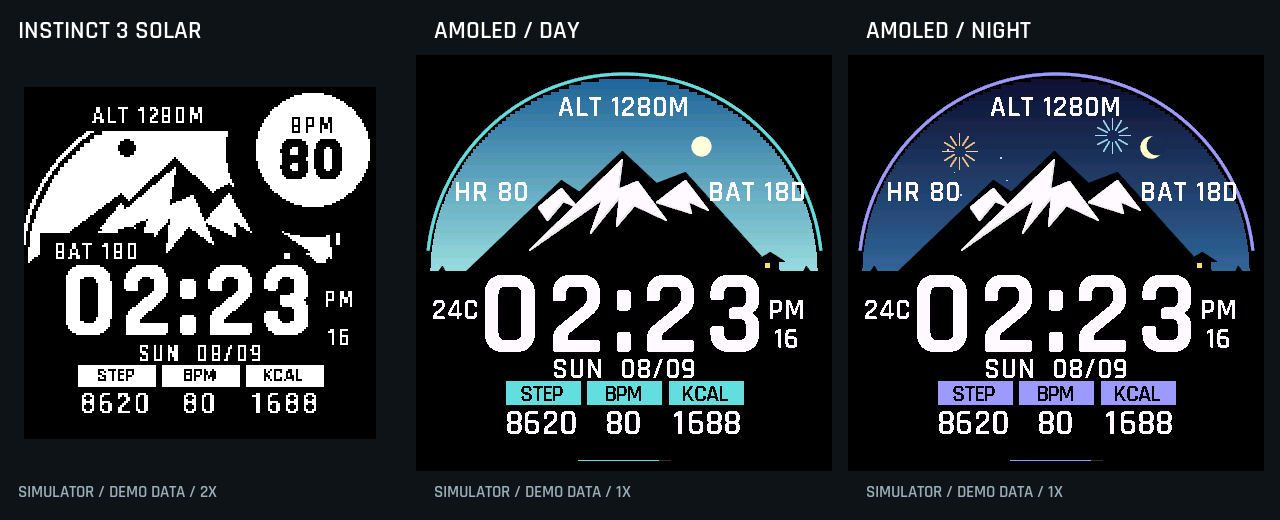
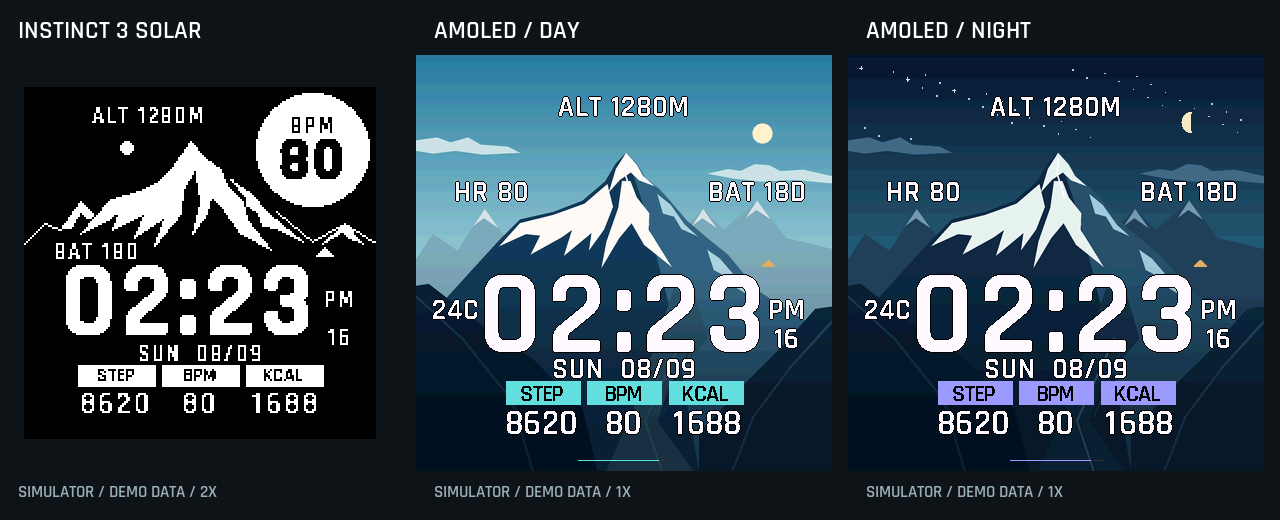
feat: redesign Alpine with full-bleed Everest landscapes

diff --git a/alpine/tools/everest_art.py b/alpine/tools/everest_art.py
@@ -1,0 +1,103 @@
+"""Clean full-bleed Everest illustration, rasterized for each native screen.
+Original artwork; references and stylization boundary: assets/everest/SOURCES.md.
+"""
+from PIL import Image,ImageDraw
+
+RIDGE=[(-.08,.72),(.04,.62),(.14,.51),(.20,.445),(.25,.395),(.33,.377),(.40,.35),(.455,.303),(.48,.26),(.505,.235),(.53,.26),(.55,.294),(.585,.322),(.61,.35),(.65,.397),(.70,.44),(.75,.48),(.82,.565),(.92,.63),(1.08,.72)]
+
+def monochrome(width,height):
+    """Independent ink composition: large solid snow planes, no grayscale conversion."""
+    im=Image.new('1',(width,height),0);d=ImageDraw.Draw(im)
+    def points(ps):return [(round(x*width/176),round(y*height/176)) for x,y in ps]
+    def polygon(ps,white=True):d.polygon(points(ps),fill=1 if white else 0)
+    def ridge(ps):d.line(points(ps),fill=1,width=1)
+    # A continuous backdrop with distant summits separated from the foreground.
+    ridge([(0,78),(10,68),(18,71),(28,57),(40,70),(51,62),(66,77),(87,67),(109,73),(126,62),(144,77),(160,68),(176,78)])
+    polygon([(18,71),(28,57),(37,68),(31,65),(28,62),(23,70)])
+    polygon([(149,78),(160,68),(169,78),(162,75),(159,72)])
+    # Taller, broader Everest: summit pyramid and broad western shoulder.
+    silhouette=[(0,94),(19,82),(30,69),(43,55),(58,51),(68,45),(76,31),(83,27),(90,35),(98,41),(108,46),(116,56),(126,64),(143,77),(161,89),(176,96),(176,176),(0,176)]
+    polygon(silhouette,False)
+    polygon([(83,27),(74,40),(67,47),(59,51),(43,56),(28,73),(42,66),(48,61),(44,71),(60,63),(55,75),(70,65),(65,79),(78,63),(79,51),(84,43)])
+    polygon([(83,27),(90,35),(98,41),(101,49),(109,57),(111,66),(123,81),(108,73),(99,60),(93,54),(91,63),(84,73),(88,57),(86,45)])
+    polygon([(103,46),(112,52),(122,63),(139,77),(127,71),(119,69),(117,63),(111,59),(111,55)])
+    # No hairlines or dot carpets beneath the data: the mountain's dark base fills it.
+    return im
+
+def render(width,height,scene,mono=False,amoled=False):
+    if mono:return monochrome(width,height)
+    ss=4 if amoled else 1;W,H=width*ss,height*ss
+    im=Image.new('RGB',(W,H));d=ImageDraw.Draw(im);night=scene in (4,9)
+    def rgb(c):return ((c>>16)&255,(c>>8)&255,c&255)
+    def xy(points):return [(round(x*W),round(y*H)) for x,y in points]
+    def poly(points,c):d.polygon(xy(points),fill=rgb(c))
+    def line(points,c,w=1):d.line(xy(points),fill=rgb(c),width=max(1,round(w*ss*width/260)),joint='curve')
+    if night:top,bottom=0x07172F,0x32738B;snow,ice,shade,rock=0xE6F3EF,0x9ECAD9,0x28536D,0x102B43
+    elif scene==1:top,bottom=0x6C6496,0xEAC7BC;snow,ice,shade,rock=0xFFF2DC,0xCBCDDD,0x626881,0x263B55
+    elif scene in (3,6):top,bottom=0x805E78,0xE9B27E;snow,ice,shade,rock=0xFFF1D6,0xD7C2B6,0x70627A,0x28374E
+    elif scene in (5,7):top,bottom=0x284858,0x98B8BF;snow,ice,shade,rock=0xE2E9E2,0xA5C4CE,0x506C7D,0x263E51
+    else:top,bottom=0x287D9E,0xAFDDE0;snow,ice,shade,rock=0xFAFFF4,0xABD3DE,0x346783,0x163D58
+    for y in range(H):
+        k=min(1,y/(H*.62));a=rgb(top);b=rgb(bottom)
+        color=tuple(round(v*(1-k)+z*k) for v,z in zip(a,b))
+        if mono:color=(0,0,0) if night else (255,255,255)
+        d.line((0,y,W,y),fill=color)
+    # Two restrained, broad cloud banks; no screen-wide stripes or stippling.
+    clouds=[[(0,.205),(.05,.198),(.083,.21),(.125,.198),(.155,.215),(.22,.22),(.25,.235),(.16,.239),(.095,.23),(.04,.237),(0,.23)],[(.70,.285),(.75,.274),(.78,.278),(.815,.262),(.85,.265),(.875,.279),(.93,.275),(1,.291),(1,.308),(.91,.300),(.83,.304),(.76,.296)]]
+    if not mono:
+        for i,cloud in enumerate(clouds):poly(cloud,0x426C86 if night else (0xC8E5E3 if scene==2 else 0xDCCBC5))
+    else:
+        # Leave clear sky around the headline and the physical heart-rate window.
+        line([(.02,.23),(.08,.23),(.10,.219),(.15,.219),(.18,.23),(.24,.23)],0xFFFFFF if night else 0,1)
+    # Distant silhouettes, softened on colour screens and clean contours on MIP.
+    far=[(-.1,.64),(.04,.43),(.10,.47),(.165,.37),(.23,.46),(.30,.41),(.39,.50),(.50,.43),(.59,.47),(.69,.37),(.74,.42),(.82,.35),(.89,.44),(1.1,.49),(1.1,1),(-.1,1)]
+    poly(far,0 if mono else (0x23445E if night else 0x7DAAB8))
+    if mono:line(far[:14],0xFFFFFF if night else 0,1)
+    for x,y in [(.165,.37),(.69,.37),(.82,.35)]:
+        poly([(x-.026,y+.040),(x,y),(x+.032,y+.045),(x+.01,y+.03),(x-.002,y+.022)],0xFFFFFF if mono else (0x7599AC if night else 0xD2E3E1))
+    # Everest's summit pyramid and broad western shoulder, extended to the screen edge.
+    poly(RIDGE+[(1.1,1.1),(-.1,1.1)],0 if mono else rock)
+    poly([(.505,.235),(.53,.26),(.55,.294),(.585,.322),(.61,.35),(.65,.397),(.70,.44),(.75,.48),(.82,.565),(.92,.63),(1.08,.72),(1.08,1),(.68,1),(.62,.65),(.58,.49),(.55,.37)],0 if mono else shade)
+    bright=0xFFFFFF if mono else snow;cool=0xFFFFFF if mono else ice
+    # Few large, deliberate snow planes retain a strong silhouette at 176 pixels.
+    poly([(.505,.235),(.53,.263),(.545,.29),(.573,.315),(.536,.301),(.516,.282),(.49,.30),(.464,.329),(.48,.274)],bright)
+    poly([(.46,.31),(.405,.357),(.33,.384),(.25,.404),(.20,.459),(.264,.43),(.298,.434),(.276,.479),(.35,.438),(.375,.42),(.356,.482),(.422,.427),(.416,.469),(.452,.419),(.473,.365)],bright)
+    poly([(.495,.302),(.515,.303),(.53,.342),(.56,.38),(.559,.42),(.614,.509),(.548,.456),(.518,.404),(.488,.44),(.446,.511),(.458,.448),(.486,.367)],bright)
+    poly([(.58,.334),(.612,.36),(.646,.408),(.676,.435),(.638,.418),(.62,.388),(.594,.381)],cool)
+    poly([(.70,.468),(.73,.489),(.768,.533),(.806,.582),(.766,.557),(.744,.531),(.716,.517)],cool)
+    # A thin, single ridge separates the two main snow faces without hairline scratches.
+    if not mono:line([(.505,.249),(.502,.284),(.514,.322),(.52,.344)],0xFFFFFF,1)
+    # Foreground glacier valley and rock walls continue behind the clock/data.
+    glacier=[(.62,.56),(.67,.58),(.70,.68),(.61,.79),(.58,.88),(.71,1.06),(.43,1.06),(.52,.86),(.56,.74)]
+    poly(glacier,0 if mono else (0x15364D if night else 0x305D73))
+    left=[(-.1,.57),(.03,.55),(.16,.65),(.28,.73),(.40,.85),(.46,1.1),(-.1,1.1)]
+    right=[(1.1,.59),(.96,.61),(.88,.70),(.78,.80),(.68,.91),(.68,1.1),(1.1,1.1)]
+    poly(left,0 if mono else 0x0A2337);poly(right,0 if mono else 0x102D42)
+    # Sparse contour accents at the edges, not a texture carpet under the numerals.
+    if mono:
+        line([(.0,.58),(.07,.63),(.13,.71)],0xFFFFFF,1)
+        line([(1,.63),(.95,.67),(.9,.74)],0xFFFFFF,1)
+    else:
+        line([(.0,.58),(.11,.68),(.23,.83),(.28,1)],0x1B3D53,1.5)
+        line([(1,.64),(.90,.75),(.81,.87),(.76,1)],0x285069,1.4)
+        line([(.64,.68),(.59,.79),(.55,.88),(.59,1)],0x426E80,1.2)
+        line([(.66,.7),(.62,.80),(.59,.87)],0x21495F,1)
+    # Gentle darkness for text contrast, preserving the full-bleed foreground.
+    if not mono:
+        layer=Image.new('RGBA',(W,H));ld=ImageDraw.Draw(layer)
+        for y in range(H):
+            k=max(0,min(1,(y/H-.46)/.48));alpha=round(115*k*k*(3-2*k))
+            ld.line((0,y,W,y),fill=(0,5,13,alpha))
+        im=Image.alpha_composite(im.convert('RGBA'),layer).convert('RGB')
+    if ss!=1:im=im.resize((width,height),Image.Resampling.LANCZOS)
+    if mono:return im.convert('1',dither=Image.Dither.NONE)
+    if not amoled:
+        palette=Image.new('P',(1,1))
+        palette.putpalette([0,0,0,85,85,85,170,170,170,255,255,255,85,170,170]+[0,0,0]*251)
+        return im.quantize(palette=palette,dither=Image.Dither.NONE)
+    return im
+
+
+def generate_resources(folder,width,height,mono,amoled):
+    folder.mkdir(exist_ok=True)
+    for scene in range(1,10):render(width,height,scene,mono,amoled).save(folder/f'everest-{scene}.png')

diff --git a/alpine/tools/generate.py b/alpine/tools/generate.py
@@ -2,6 +2,7 @@
 from pathlib import Path
 import json, math, uuid
 from PIL import Image, ImageDraw, ImageFont
+from everest_art import generate_resources
 ROOT=Path(__file__).resolve().parents[1]
 PACKS=Path.home()/'Library/Application Support/Garmin/ConnectIQ/Devices'
 DEVICES=['instinct3solar45mm','instinct2','instinct2s','instinct2x','fenix7','epix2']
@@ -86,7 +87,15 @@ def generate():
         icons=res/'drawables';icons.mkdir(exist_ok=True)
         iw=c['launcherIcon']['width'];ih=c['launcherIcon']['height']
         (icons/'icon.svg').write_text(f'<svg xmlns="http://www.w3.org/2000/svg" width="{iw}" height="{ih}" viewBox="0 0 40 40"><rect width="40" height="40" fill="black"/><path d="M3 31 L18 8 L25 18 L29 13 L38 31 Z" fill="white"/><path d="M12 27 L18 13 L21 21 L18 19 Z" fill="black"/></svg>')
-        (icons/'drawables.xml').write_text('<drawables><bitmap id="LauncherIcon" filename="icon.svg"/></drawables>')
+        generate_resources(icons,w,h,mono,c['bitsPerPixel']==16)
+        entries=['<bitmap id="LauncherIcon" filename="icon.svg"/>']
+        for i in range(1,10):
+            if mono:
+                entries.append(f'<bitmap id="Everest{i}" filename="everest-{i}.png" dithering="none" compress="true"><palette disableTransparency="true"><color>000000</color><color>FFFFFF</color></palette></bitmap>')
+            else:
+                attrs='automaticPalette="false" packingFormat="png"' if c['bitsPerPixel']==16 else 'compress="true"'
+                entries.append(f'<bitmap id="Everest{i}" filename="everest-{i}.png" dithering="none" {attrs}/>')
+        (icons/'drawables.xml').write_text('<drawables>'+''.join(entries)+'</drawables>')
         (out/'Device.mc').write_text('module Device {\n'+''.join(f' const {k}={str(v).lower()};\n' for k,v in constants.items())+'}\n')
         jungle += [f'{device}.sourcePath = $(base.sourcePath);generated/{device}',f'{device}.resourcePath = $(base.resourcePath);generated/{device}/resources',f'{device}.lang.zhs = resources-zhs']
         profiles.append(dict(device=device,**constants,minimumApi=min(p['connectIQVersion'] for p in c['partNumbers'])))
@@ -103,7 +112,7 @@ def generate():
     for mode in ['preview','tests']:
         for device in DEVICES:
             rel=f'generated/{device}/{mode}-manifest.xml'
-            ident=uuid.uuid5(uuid.NAMESPACE_DNS,f'wristink.alpine.detail6.{mode}.{device}').hex
+            ident=uuid.uuid5(uuid.NAMESPACE_DNS,f'wristink.alpine.everest5.{mode}.{device}').hex
             source=(ROOT/mode/'manifest.xml').read_text()
             old='bb71078cce15417aa5425aa350817002' if mode=='preview' else 'bb71078cce15417aa5425aa350817003'
             (ROOT/rel).write_text(source.replace(old,ident))

diff --git a/alpine/tools/settings.py b/alpine/tools/settings.py
@@ -1,7 +1,7 @@
 from pathlib import Path
 from xml.sax.saxutils import escape
 R=Path(__file__).resolve().parents[1]
-fields=[('TimeFormat',0,'Time format','时间格式',['System','12 hour','24 hour'],['跟随系统','12 小时','24 小时']),('Scene',0,'Landscape','山景',['Automatic','Dawn','Day','Dusk','Night','Rain','Volcano','Lightning','Rainbow','Fireworks'],['自动','黎明','白昼','黄昏','夜晚','雨景','火山','闪电','彩虹','烟花']),('Circle',0,'Instinct circle','本能圆窗',['Heart rate','Battery days','Stress'],['心率','剩余天数','压力']),('Smart',True,'Smart scenes','智能场景',None,None),('Seconds',True,'Seconds when awake','抬腕显示秒数',None,None),('LowBattery',20,'Low battery threshold (%)','低电量阈值（%）',None,None),('StressLimit',75,'Stress threshold','压力阈值',None,None)]
+fields=[('TimeFormat',0,'Time format','时间格式',['System','12 hour','24 hour'],['跟随系统','12 小时','24 小时']),('Scene',0,'Landscape','山景',['Automatic','Dawn','Day','Dusk','Night','Rain','Warm storm','Lightning','Rainbow','Fireworks'],['自动','黎明','白昼','黄昏','夜晚','雨景','暖色风暴','闪电','彩虹','烟花']),('Circle',0,'Instinct circle','本能圆窗',['Heart rate','Battery days','Stress'],['心率','剩余天数','压力']),('Smart',True,'Smart scenes','智能场景',None,None),('Seconds',True,'Seconds when awake','抬腕显示秒数',None,None),('LowBattery',20,'Low battery threshold (%)','低电量阈值（%）',None,None),('StressLimit',75,'Stress threshold','压力阈值',None,None)]
 for key,title,cn,default in [('Left','Left data','左侧数据',0),('Middle','Middle data','中间数据',1),('Right','Right data','右侧数据',2)]:fields.append((key,default,title,cn,['Steps','Heart rate','Calories','Altitude','Battery days','Distance'],['步数','心率','总热量','海拔','剩余天数','距离']))
 props=[];settings=[];en=['<string id="AppName">WristInk Alpine</string>'];zh=['<string id="AppName">山境 Alpine</string>']
 for key,default,title,cn,opts,cnopts in fields:

diff --git a/alpine/tools/package_local.py b/alpine/tools/package_local.py
@@ -2,7 +2,7 @@
 from pathlib import Path
 from PIL import Image,ImageDraw,ImageFont
 import hashlib,json,shutil,zipfile
-R=Path(__file__).resolve().parents[1];E=R/'dist/evidence';D=R/'docs';version='1.0.1'
+R=Path(__file__).resolve().parents[1];E=R/'dist/evidence';D=R/'docs';version='1.1.0'
 for name in ['instinct3-native','instinct2s-native','fenix7-native','epix2-native','epix2-night']:
  shutil.copy2(E/(name+'.png'),D/(name+'.png'))
 board=Image.new('RGB',(1280,520),(14,19,23));draw=ImageDraw.Draw(board)
@@ -10,7 +10,7 @@ f=ImageFont.truetype(str(R/'assets/fonts/Rajdhani-SemiBold.ttf'),25);small=Image
 for title,filename,left,width,scale in [('INSTINCT 3 SOLAR','instinct3-native',0,400,2),('AMOLED / DAY','epix2-native',416,416,1),('AMOLED / NIGHT','epix2-night',848,416,1)]:
  draw.text((left+18,14),title,font=f,fill='white');im=Image.open(E/(filename+'.png')).convert('RGB');im=im.resize((im.width*scale,im.height*scale),Image.Resampling.NEAREST)
  board.paste(im,(left+(width-im.width)//2,55+(416-im.height)//2));draw.text((left+18,481),'SIMULATOR / DEMO DATA'+(' / 2X' if scale==2 else ' / 1X'),font=small,fill=(154,175,183))
-board.save(D/'preview-board.png');board.save(D/'preview-details.png')
+board.save(D/'preview-board.png');board.save(D/'preview-everest.png')
 manifest=[]
 for p in sorted((R/'bin').glob('*-live.prg')):
  target=R/'dist'/p.name;shutil.copy2(p,target);manifest.append({'file':target.name,'bytes':target.stat().st_size,'sha256':hashlib.sha256(target.read_bytes()).hexdigest()})

diff --git a/alpine/tools/scenario.py b/alpine/tools/scenario.py
@@ -5,7 +5,7 @@ from generate import generate, ROOT, DEVICES
 p=argparse.ArgumentParser();p.add_argument('device',choices=DEVICES);p.add_argument('scene',type=int,choices=range(1,10));a=p.parse_args()
 generate();dest=ROOT/'generated/scenarios'/f'{a.device}-{a.scene}';dest.mkdir(parents=True,exist_ok=True)
 (dest/'Mode.mc').write_text(f'module Mode {{const DEMO=true;const SCENE={a.scene};}}\n')
-manifest=(ROOT/'manifest.xml').read_text().replace('bb71078cce15417aa5425aa350817001',uuid.uuid5(uuid.NAMESPACE_DNS,f'wristink.alpine.detail6.{a.device}.{a.scene}').hex)
+manifest=(ROOT/'manifest.xml').read_text().replace('bb71078cce15417aa5425aa350817001',uuid.uuid5(uuid.NAMESPACE_DNS,f'wristink.alpine.everest5.{a.device}.{a.scene}').hex)
 (dest/'manifest.xml').write_text(manifest)
 rel=dest.relative_to(ROOT)
 jungle=(ROOT/'monkey.jungle').read_text().replace('project.manifest = manifest.xml',f'project.manifest = {rel}/manifest.xml').replace('base.sourcePath = source;live',f'base.sourcePath = source;{rel}')

diff --git a/alpine/docs/validation.md b/alpine/docs/validation.md
@@ -1,5 +1,17 @@
 # 山境验证记录 — 2026-11-03
 
+## 1.1.0 珠峰全屏版
+
+根据用户反馈，最终保留干净锐利的大块雪面：彩屏采用珠峰北壁形态的原创几何插画，远山、云层、冰川与山脊延伸到数据区后；黑白屏单独重画为深色天空和更大的完整白色雪面，不使用灰度转换、密集点阵或照片纹理。两版均移除了用户指出的山顶烟雾状飘雪，右上默认心率与电池预计剩余天数保持不变。所有形态为面向小屏的艺术化重绘，不声明实测地形或摄影复刻。
+
+原生资源逐设备生成，只驻留当前场景。整分钟画背景，秒数/数据刷新只恢复对应的背景区域；不会用纯黑擦除框覆盖全屏插画。AMOLED 采用原生尺寸 PNG 和图形池资源，关闭编译器自动图片抖动；黑白采用明确的黑白调色板。彩色 MIP 限制为稳定的黑白灰/青色，以避免暗部的蓝紫量化伪色。高压力场景改为暖色天空，不把珠峰表现为喷发火山。
+
+六个 SDK 目标正式编译成功。Instinct 2S、Instinct 3 Solar、epix2 各 12 项原生测试通过，新增对背景对象复用、场景切换失效、九种场景实际绘制和背景区域恢复的验证。位图与月相的新绘制路径均执行；后续仅调整 fēnix 的资源调色板，没有改动数据/缓存逻辑。日志 `dist/evidence/*-tests.log`。
+
+重新导出当前 `instinct3-native.png`、`instinct2s-native.png`、`epix2-native.png`、`epix2-night.png` 和 `fenix7-native.png`，均为真实模拟器 framebuffer、演示数据。`preview-everest.png` 展示最终黑白/白昼/夜晚全表盘；黑白 2×最近邻，其余 1×。下文旧版本图形和内存结论只作为历史记录，不代表当前画面已获用户认可。
+
+没有进行实体手表安装、长期耗电、所有地区固件与商店发布验证。AOD 沿用只显示低亮时间的策略，本轮未重复执行已有 AOD 的长时验证。
+
 ## 1.0.1 细节修订
 
 按用户红框修订：本能圆窗改为圆形留空，移开相邻太阳并清除矩形清底造成的碎边；主时间字体保持不变。底部增加独立 Label / Metric 字体，按实际墨迹裁去侧边空白、统一数字字宽与基线；整行共同决定是否采用较小字体，不再单独缩小四位数。标签留出上下空白，fēnix 7 按原生字体基线单独校正。夜景烟花避开海拔文字。

diff --git a/alpine/README.md b/alpine/README.md
@@ -1,13 +1,15 @@
 # 山境 · WristInk Alpine
 
-雪山剪影、大字时间与三栏数据的独立 Garmin Connect IQ 表盘。参考用户提供的 Forester X 展示图重新绘制山峰、树林、天空和小屋，不复用原作品牌或位图。
+全屏珠峰主题、大字时间与三栏数据的独立 Garmin Connect IQ 表盘。参考用户提供的 Forester X 展示图的信息层级，以珠峰北壁轮廓创作原创山景；不复用原作品牌或位图。山顶烟雾状飘雪已按用户要求移除。
 
-- **本能系列**：为硬件圆窗独立排版，右上默认显示心率，可切换剩余天数或压力。
-- **圆形彩屏**：原生尺寸雪山与渐变天空，晨、昼、昏、夜四种时段；太阳沿示意轨迹移动，夜间显示近似月相。
-- **智能场景**：低电量闪电 → 高压力火山 → 雨天 → 步数达标彩虹/夜间烟花，按此顺序选择。每种也可手动选用。场景是静态插画，不循环播放动画。
-- **数据**：底部三栏各可选择步数、心率、总热量、海拔、预计续航天数、距离；有未读通知时小屋亮灯。
+- **本能系列**：独立重画的深色天空与大块白色雪面，为硬件圆窗独立排版，右上默认显示心率，可切换剩余天数或压力。
+- **圆形彩屏**：原生尺寸珠峰、大块雪面、远山与云层，晨、昼、昏、夜四种时段；太阳沿示意轨迹移动，夜间显示近似月相。
+- **智能场景**：低电量闪电 → 高压力暖色天空 → 雨天 → 步数达标彩虹/夜间烟花，按此顺序选择。每种也可手动选用。场景是静态插画，不循环播放动画。
+- **数据**：底部三栏各可选择步数、心率、总热量、海拔、预计续航天数、距离；有未读通知时显示小型帐篷灯光。
 - **时间**：跟随系统或独立 12/24 小时制，秒数仅在唤醒时更新。AMOLED 休眠显示独立低亮时钟。
 - **设置**：英文默认、简体中文覆盖；显示单位跟随手表。表盘指标使用紧凑英文缩写。
+
+彩屏背景使用独立的图形资源；黑白版单独设计，使用纯黑/纯白实体雪面，没有灰度转换和密集抖点。正常刷新恢复对应背景区域，秒数与数据更新不会留下黑色擦除块。
 
 ## 构建目标
 

diff --git a/alpine/assets/everest/SOURCES.md b/alpine/assets/everest/SOURCES.md
@@ -1,0 +1,16 @@
+# Everest artwork references
+
+Original vector illustration and native-resolution rasterization in `tools/everest_art.py`.
+It is a stylized, compressed composition, not a surveyed panorama or a photograph.
+No external photograph is distributed in the watch-face resources.
+
+Shape reference, inspected 2026-11-03:
+- Colin Ingram, Everest north face from Rongbuk: https://www.caingram.com/Nepalpeaks/everest_north_side.htm
+- Reference photograph: https://www.caingram.com/Everest_pix/Everest_north_face.jpg
+- NASA, North Col of Mount Everest: https://science.nasa.gov/earth/earth-observatory/north-col-of-mount-everest-48603/
+
+Key visual structure: broad north face, small summit pyramid, stepped northeast skyline,
+western shoulder, broad geometric snow planes, a glacier valley and foreground ridges.
+Clouds, colour palettes, decorative sky effects and foreground composition are original.
+The final monochrome composition is separately hand-drawn in solid black/white.
+Dense texture/dither and summit spindrift were removed following user feedback.
